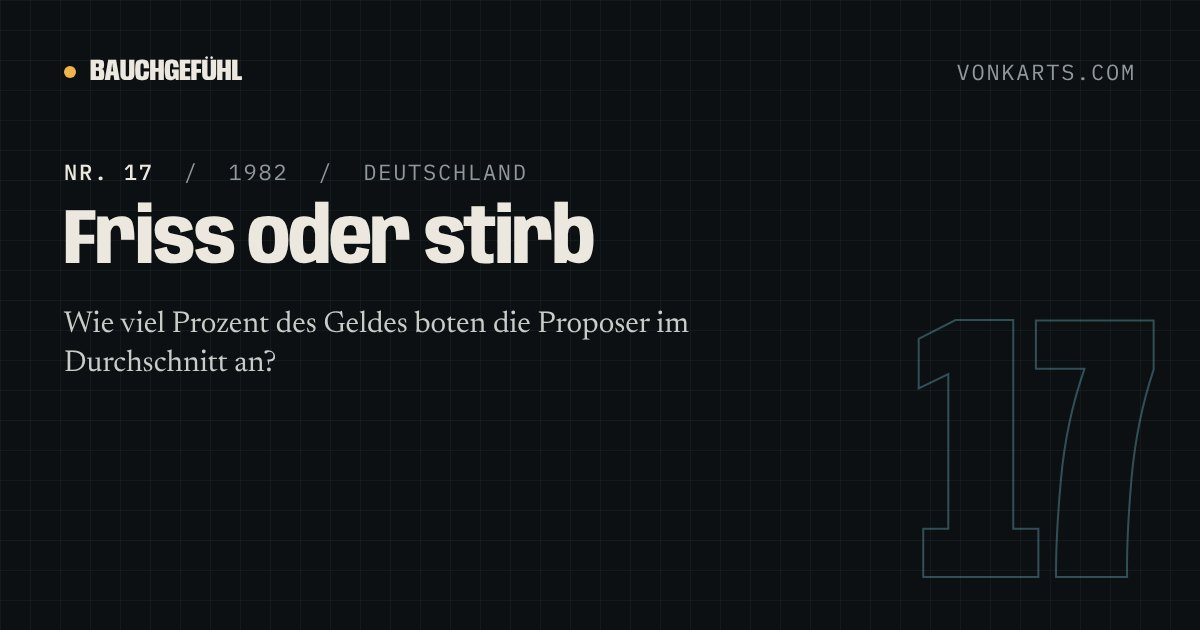
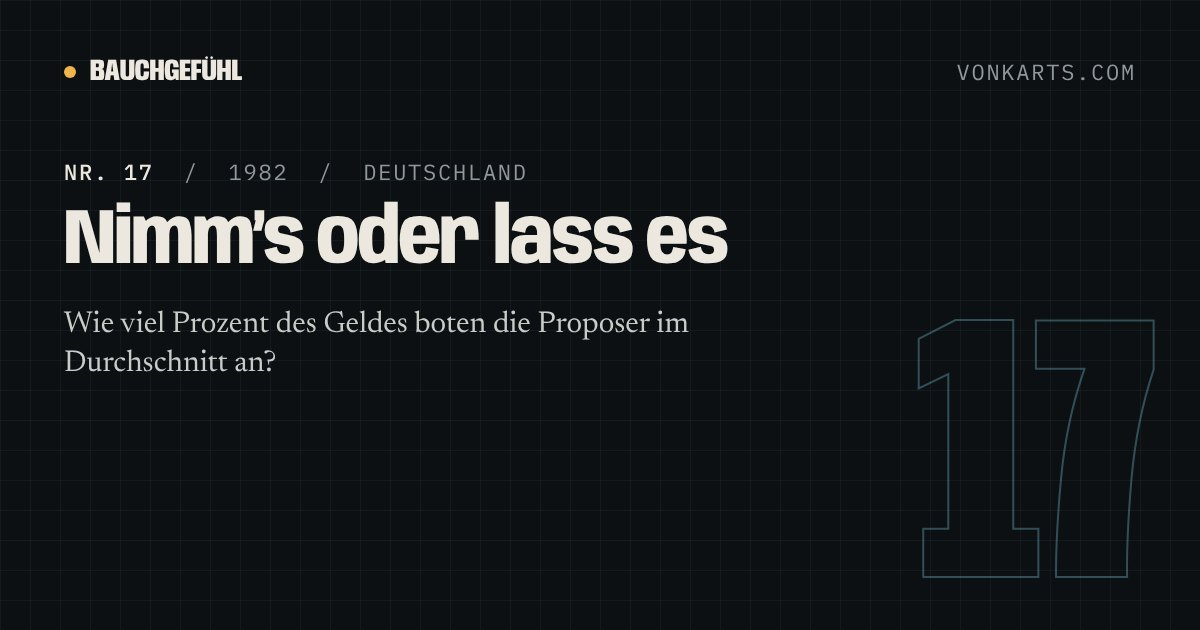
11–20 çeviri düzeltmeleri (ChatGPT denetimi): TR Loftus fiilleri, DE Ultimatum başlığı ve madalya etiketleri, FR köpek cümlesi, marshmallow '2/3' etiketi
Claude-Session: https://claude.ai/code/session_01S3aKa9FYuubBrD5bXf86vX

Changed region(s): [[0.0617, 0.3016, 0.6167, 0.4222]]

diff --git a/_queue/tr/018-loftus-palmer-araba-kazasi-deneyi.md b/_queue/tr/018-loftus-palmer-araba-kazasi-deneyi.md
@@ -5,14 +5,14 @@ ref: crash
 permalink: /tr/deneyler/loftus-palmer-araba-kazasi-deneyi/
 title: Tek bir kelime
 seo_title: 'Loftus ve Palmer Araba Kazası Deneyi: Sonuçlar'
-description: İnsanlar filmde bir araba kazası izledi ve arabaların birbirine “çarptığında” ne kadar hızlı gittiği soruldu. Bir hafta sonra kaçı kırık cam “hatırladı”?
+description: İnsanlar filmde bir araba kazası izledi ve arabaların “birbirine girdiklerinde” ne kadar hızlı gittiği soruldu. Bir hafta sonra kaçı kırık cam “hatırladı”?
 image: /images/cards/tr-crash.jpg
 meta:
 - '1974'
 - Washington Üniversitesi
 - Öğrenciler
 story:
-- 'Öğrenciler trafik kazalarını gösteren kısa filmler izledi. Ardından gördükleriyle ilgili soruları cevapladılar, aralarında şu da vardı: “Arabalar birbirine ___ zaman ne kadar hızlı gidiyordu?” Fiil gruptan gruba değişiyordu: “paramparça olurcasına çarptıklarında”, “çarpıştıklarında”, “tosladıklarında”, “vurduklarında” ya da “temas ettiklerinde”.'
+- 'Öğrenciler trafik kazalarını gösteren kısa filmler izledi. Ardından gördükleriyle ilgili soruları cevapladılar, aralarında şu da vardı: “Arabalar ___ yaklaşık ne kadar hızlı gidiyordu?” Boşluğa gelen ifade gruptan gruba değişiyordu: “birbirine girdiklerinde”, “çarpıştıklarında”, “tosladıklarında”, “birbirine çarptıklarında” ya da “birbirine değdiklerinde”.'
 - 'Bir hafta sonra katılımcılar geri geldi ve filmi yeniden izlemeden başka soruları cevapladı. Bunlardan biri şuydu: “Kırık cam gördünüz mü?” Filmde kırık cam yoktu.'
 you:
   q: Filmden bir hafta sonra sana kırık camı soruyorlar. Geçen haftaki kelime seni etkiler miydi?
@@ -23,9 +23,9 @@ you:
   - Muhtemelen evet
 type: percent
 answer: 32
-q: “Paramparça olurcasına çarptıklarında” ifadesini duyanların yüzde kaçı kırık cam gördüğünü söyledi?
-you_real: “Paramparça olurcasına çarptıklarında” ifadesini duyan gerçek katılımcıların %32'si kırık cam gördüğünü söyledi; “vurduklarında” ifadesini duyanlarda bu oran %14'tü.
-original: İlk deneyde (45 öğrenci) “paramparça olurcasına çarptıklarında” ifadesi ortalama saatte 40,8 mil (yaklaşık 66 km), “temas ettiklerinde” ise 31,8 mil (yaklaşık 51 km) hız tahmini getirdi. İkinci deneyde (150 öğrenci) “paramparça” grubunun %32'si kırık cam gördüğünü söyledi; “vurduklarında” grubunda bu oran %14, hızı hiç sorulmayan grupta %12'ydi.
+q: “Birbirine girdiklerinde” ifadesini duyanların yüzde kaçı kırık cam gördüğünü söyledi?
+you_real: “Birbirine girdiklerinde” ifadesini duyan gerçek katılımcıların %32'si kırık cam gördüğünü söyledi; “birbirine çarptıklarında” ifadesini duyanlarda bu oran %14'tü.
+original: İlk deneyde (45 öğrenci) “birbirine girdiklerinde” ifadesi ortalama saatte 40,8 mil (yaklaşık 66 km), “birbirine değdiklerinde” ise 31,8 mil (yaklaşık 51 km) hız tahmini getirdi. İkinci deneyde (150 öğrenci) “birbirine girdiklerinde” grubunun %32'si kırık cam gördüğünü söyledi; “birbirine çarptıklarında” grubunda bu oran %14, hızı hiç sorulmayan grupta %12'ydi.
 today: Araştırma bellek çalışmalarının klasiklerinden biri oldu ve polisin ve mahkemelerin görgü tanığı ifadesine ve yönlendirici sorulara bakışını etkiledi. Örneklemler küçüktü ve öğrencilerden oluşuyordu, ama sonraki araştırmalar soruların nasıl sorulduğunun insanların hatırladığını söylediği şeyi değiştirebildiğini defalarca gösterdi.
 surprise: Tek bir sorudaki tek bir kelime, bazı insanların bir hafta sonra gördüğünü “hatırladığı” şeyi değiştirmeye yetti.
 sources:

diff --git a/_queue/fr/014-regard-coupable-chien-etude.md b/_queue/fr/014-regard-coupable-chien-etude.md
@@ -35,7 +35,7 @@ stats:
   - chiens dans une étude de 2012 sur la même question
 you_real: 'Dans l’étude, le regard en disait plus sur le maître que sur le chien : il était le plus marqué quand des chiens obéissants étaient grondés malgré tout.'
 original: 'Que le chien ait réellement mangé la friandise ou non ne changeait rien à ses comportements de « culpabilité ». Être grondé, si : les chiens grondés en montraient beaucoup plus, et surtout quand ils étaient grondés sans avoir mangé la friandise.'
-today: Une étude de 2012 menée en Hongrie avec 64 chiens a montré que les chiens qui avaient enfreint une règle et ceux qui ne l’avaient pas fait se comportaient de façon aussi coupable en accueillant leur maître. Aucune des deux études ne dit que les chiens ne ressentent rien ; elles montrent que « le regard » n’est pas un signe fiable qu’un chien a fait une bêtise.
+today: Une étude de 2012 menée en Hongrie avec 64 chiens a montré que les chiens qui avaient enfreint une règle et ceux qui ne l’avaient pas fait présentaient autant de comportements associés à la culpabilité lorsque leur maître revenait. Aucune des deux études ne dit que les chiens ne ressentent rien ; elles montrent que « le regard » n’est pas un signe fiable qu’un chien a fait une bêtise.
 surprise: Les chiens qui avaient suivi des cours d’obéissance montraient plus souvent le regard coupable quand on les grondait.
 sources:
 - - 'Horowitz, A. (2009). Disambiguating the “guilty look”: Salient prompts to a familiar dog behaviour. Behavioural Processes, 81(3), 447–452.'

diff --git a/_queue/fr/020-test-du-marshmallow.md b/_queue/fr/020-test-du-marshmallow.md
@@ -32,7 +32,7 @@ stats:
 - - '918'
   - enfants dans l’étude de 2018
 - - 2/3
-  - du lien ont disparu une fois le milieu pris en compte
+  - du lien restant ont disparu une fois le milieu pris en compte
 you_real: Dans l’étude de 2018, le lien entre le temps d’attente des enfants et leurs résultats scolaires à 15 ans était deux fois plus faible que dans les études d’origine, et les deux tiers en disparaissaient une fois le milieu familial pris en compte.
 original: La version la plus connue (1972) a eu lieu à l’école maternelle Bing de Stanford avec 50 enfants ; les récompenses étaient des marshmallows ou des bretzels. Des études de suivi de 1988 et 1990 ont rapporté que les enfants qui avaient attendu plus longtemps étaient jugés plus compétents à l’adolescence et avaient de meilleurs scores au SAT.
 today: Dans la réplication de 2018, le lien entre l’attente et la réussite à 15 ans ne valait que la moitié de celui rapporté dans les études d’origine. En tenant compte du milieu familial, des capacités cognitives précoces et de l’environnement à la maison, il diminuait encore des deux tiers. Le test semble mesurer la situation de l’enfant autant que sa volonté.

diff --git a/_queue/de/020-marshmallow-test.md b/_queue/de/020-marshmallow-test.md
@@ -32,7 +32,7 @@ stats:
 - - '918'
   - Kinder in der Studie von 2018
 - - 2/3
-  - des Zusammenhangs verschwanden, als der Hintergrund berücksichtigt wurde
+  - des verbleibenden Zusammenhangs verschwanden, als der Hintergrund berücksichtigt wurde
 you_real: In der Studie von 2018 war der Zusammenhang zwischen der Wartezeit und den Schulleistungen mit 15 nur halb so stark wie in den Originalstudien, und zwei Drittel davon verschwanden, als der Familienhintergrund berücksichtigt wurde.
 original: Die bekannteste Version (1972) fand im Bing-Kindergarten in Stanford mit 50 Kindern statt; die Belohnungen waren Marshmallows oder Salzstangen. Folgestudien von 1988 und 1990 berichteten, dass Kinder, die länger gewartet hatten, als Jugendliche als kompetenter eingeschätzt wurden und höhere SAT-Werte hatten.
 today: In der Wiederholung von 2018 war der Zusammenhang zwischen Warten und Leistung mit 15 nur halb so groß wie in den Originalstudien berichtet. Mit Kontrollen für Familienhintergrund, frühe kognitive Fähigkeiten und das häusliche Umfeld schrumpfte er um weitere zwei Drittel. Der Test scheint die Lebenslage eines Kindes ebenso zu messen wie seine Willenskraft.

diff --git a/_queue/es/020-test-del-malvavisco.md b/_queue/es/020-test-del-malvavisco.md
@@ -32,7 +32,7 @@ stats:
 - - '918'
   - niños en el estudio de 2018
 - - 2/3
-  - de la relación desaparecieron al tener en cuenta el entorno
+  - de la relación restante desaparecieron al tener en cuenta el entorno
 you_real: En el estudio de 2018, la relación entre cuánto esperaban los niños y sus resultados escolares a los 15 años era la mitad de fuerte que en los estudios originales, y dos tercios de ella desaparecían al tener en cuenta el entorno familiar.
 original: La versión más conocida (1972) se hizo en la escuela infantil Bing de Stanford con 50 niños; las recompensas eran malvaviscos o palitos salados. Estudios de seguimiento de 1988 y 1990 informaron de que los niños que habían esperado más eran considerados más competentes en la adolescencia y tenían mejores puntuaciones en el SAT.
 today: En la réplica de 2018, la relación entre esperar y el rendimiento a los 15 años era solo la mitad de la que se había informado en los estudios originales. Al controlar el entorno familiar, la capacidad cognitiva temprana y el ambiente en casa, se reducía otros dos tercios. El test parece medir la situación del niño tanto como su fuerza de voluntad.

diff --git a/_queue/tr/020-marshmallow-testi.md b/_queue/tr/020-marshmallow-testi.md
@@ -32,7 +32,7 @@ stats:
 - - '918'
   - çocuk, 2018 araştırmasında
 - - 2/3
-  - bağın aile geçmişi hesaba katılınca kaybolan kısmı
+  - kalan bağın, aile geçmişi hesaba katılınca kaybolan kısmı
 you_real: 2018 araştırmasında, çocukların ne kadar beklediği ile 15 yaşındaki okul başarıları arasındaki bağ, orijinal çalışmalardakinin yarısı kadardı; aile geçmişi hesaba katılınca da bunun üçte ikisi kayboldu.
 original: En bilinen versiyon (1972), Stanford'daki Bing Anaokulu'nda 50 çocukla yapıldı; ödüller marshmallow ya da tuzlu çubuktu. 1988 ve 1990'daki takip araştırmaları, daha uzun bekleyen çocukların ergenlikte daha yetkin bulunduğunu ve SAT puanlarının daha yüksek olduğunu bildirdi.
 today: 2018'deki tekrar araştırmasında beklemek ile 15 yaşındaki başarı arasındaki bağ, orijinal çalışmalarda bildirilenin yalnızca yarısı kadardı. Aile geçmişi, erken yaştaki bilişsel beceriler ve ev ortamı hesaba katılınca bu bağ üçte iki oranında daha küçüldü. Test, çocuğun irade gücünü olduğu kadar içinde bulunduğu koşulları da ölçüyor gibi görünüyor.

diff --git a/_queue/de/019-silber-bronze-medaille-glueck-studie.md b/_queue/de/019-silber-bronze-medaille-glueck-studie.md
@@ -30,9 +30,9 @@ opts:
 - Es gab keinen Unterschied
 stats:
 - - 4,8
-  - Silbermedaillen, Durchschnittswert direkt nach dem Wettkampf
+  - Silbermedaillengewinner, durchschnittliche Bewertung direkt nach dem Wettkampf
 - - 7,1
-  - Bronzemedaillen, im selben Moment
+  - Bronzemedaillengewinner, im selben Moment
 you_real: 'Im Durchschnitt wirkten die echten Silbermedaillengewinner weniger glücklich als die Bronzemedaillengewinner: 4,8 gegenüber 7,1 von 10, direkt nach dem Wettkampf.'
 original: 'Direkt nach dem Wettkampf erhielten Silbermedaillengewinner 4,8 und Bronzemedaillengewinner 7,1 Punkte; auf dem Podest 4,3 und 5,7. Die Erklärung der Forschenden: Silbergewinner vergleichen sich nach oben („Fast hätte ich Gold geholt“), Bronzegewinner nach unten („Wenigstens habe ich eine Medaille“).'
 today: 'Eine Studie von 2021 analysierte mit Software zur Gesichtsausdruckserkennung Podestfotos von 413 Athletinnen und Athleten aus fünf Olympischen Spielen (2000–2016): Bronzemedaillengewinner lächelten mit höherer Wahrscheinlichkeit als Silbermedaillengewinner, am glücklichsten waren die Goldmedaillengewinner.'

diff --git a/_queue/en/020-marshmallow-test.md b/_queue/en/020-marshmallow-test.md
@@ -32,7 +32,7 @@ stats:
 - - '918'
   - children in the 2018 study
 - - 2/3
-  - of the link disappeared once background was taken into account
+  - of the remaining link disappeared once background was taken into account
 you_real: In the 2018 study, the link between how long children waited and their school results at 15 was half as strong as in the original studies, and two thirds of it disappeared once family background was taken into account.
 original: The best-known version (1972) took place at Stanford’s Bing Nursery School with 50 children; the rewards were marshmallows or pretzels. Follow-up studies in 1988 and 1990 reported that children who had waited longer were rated as more competent teenagers and had higher SAT scores.
 today: In the 2018 replication, the link between waiting and achievement at 15 was only half the size reported in the original studies. With controls for family background, early cognitive ability and the home environment, it shrank by a further two thirds. The test seems to measure a child’s situation as much as their willpower.

diff --git a/_queue/de/017-ultimatumspiel.md b/_queue/de/017-ultimatumspiel.md
@@ -3,7 +3,7 @@ lang: de
 ref: ultimatum
 'no': 17
 permalink: /de/experimente/ultimatumspiel/
-title: Friss oder stirb
+title: Nimm’s oder lass es
 seo_title: 'Ultimatumspiel: Wie viel bieten Menschen an?'
 description: Eine Person schlägt eine Aufteilung des Geldes vor; die andere nimmt an oder lehnt ab, dann bekommt keiner etwas. Wie viel bieten Menschen wirklich an? Schätz.
 image: /images/cards/de-ultimatum.jpg
